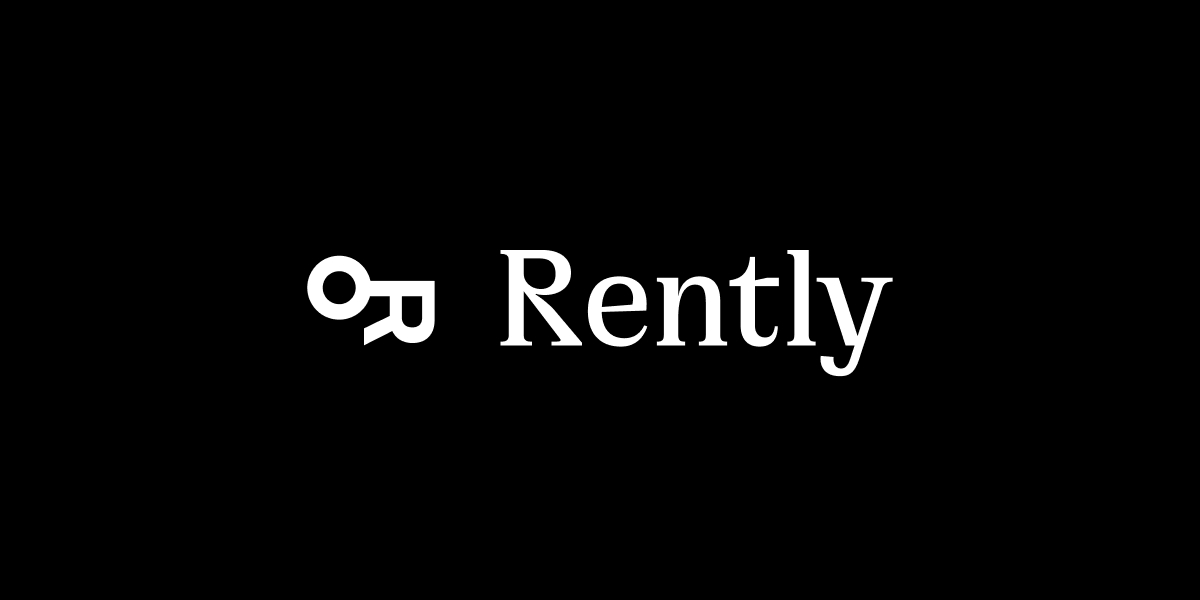
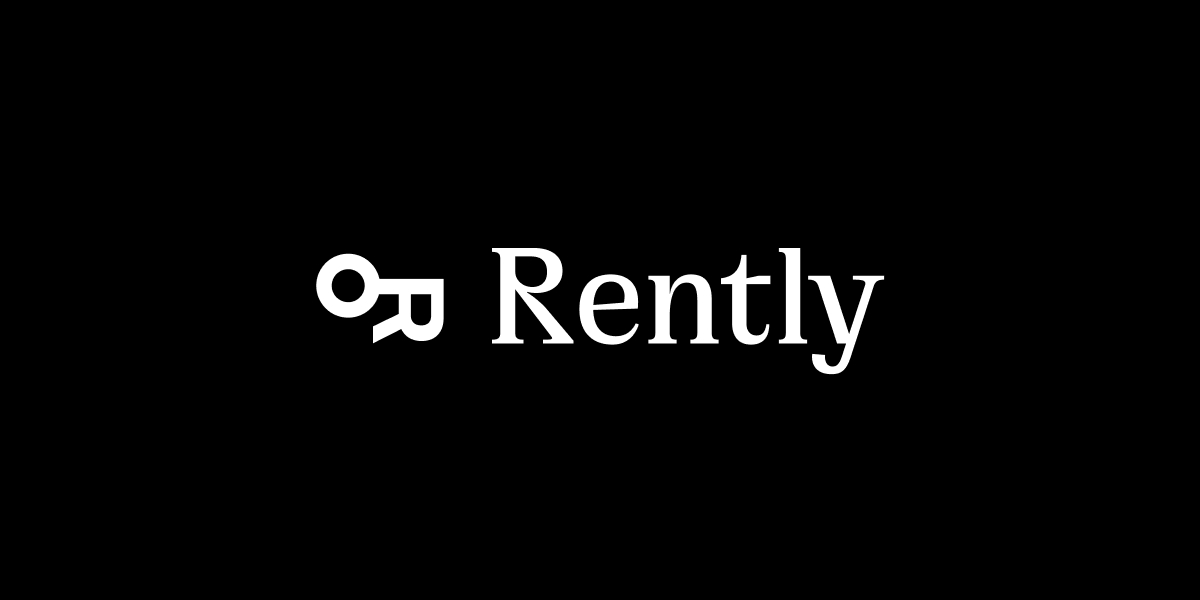
Updated README; Updated meta images

Changed region(s): [[0.4008, 0.39, 0.74, 0.63], [0.2467, 0.42, 0.37, 0.57]]

diff --git a/README.md b/README.md
@@ -1,42 +1,53 @@
-# Nuxt 3 Minimal Starter
+<p align="center">
+  <img src="https://rently-web-case.pages.dev/meta-image.jpg" alt="Astro logo">
+  <br/><br/>
+  This is a working prototype for an online platform that facilitates the property-renting process as part of a take-home web case for Rently.
+  <br/><br/>
+</p>
 
-Look at the [Nuxt 3 documentation](https://nuxt.com/docs/getting-started/introduction) to learn more.
+## Technical Stack
 
-## Setup
+As per the stated requirements, the following technical stack is used:
 
-Make sure to install the dependencies:
+- Vue 3 (utilises Composition API)
+- Nuxt 3 as a metaframework (utilises SSR)
+- Tailwind for styling
+
+The prototype is then deployed on Cloudflare Pages (via Pages Functions) at https://rently-web-case.pages.dev/
+
+## User Journey
+
+This is a simple user journey to verify that the prototype meets all the stated requirements in the assignment:
+
+1. Visit https://rently-web-case.pages.dev/
+2. Choose a property listing from the list and navigate to the Property page
+3. Click on 'Edit' in top-right corner and navigate to Edit page
+4. Make edits to property listing (limited only to adding, editing and removal of inventory items, other listing info cannot be edited since it is out of scope) and then click on 'Preview edits' button in top-right corner, thereafter navigating to Preview page
+5. Check that Preview page contains edits that were made and click on 'Approve edits' button in top-right corner, thereafter navigating back to Property page
+
+Other things to verify:
+
+1. Prototype is fully responsive across screen sizes
+2. Actual data is not mutated before 'Approve edits'
+3. Image upload (only the UI aspect works since no persistent storage is required, refer to notes below)
+
+## Notes
+
+- Since the JD asks for a "design-focused" frontend developer, I have made numerous design inputs to showcase these design skills. Such inputs include a fully-custom user interface for the prototype, design primitives such as fonts and colors and a redesign of the Rently logo.
+- Some parts of the UI have been implemented for visual completeness but do not have any functionality attached to it since they are out of scope (such as Search, links in the Navbar to other pages, Map, etc.).
+- Since the use of a database is not mandatory, data is mocked and stored locally (as a global reactive variable) — this means that data is ultimately not persisted and a hard refresh of the page will reset it to the initial data state. I did consider using a local persistent database (such as sqlite as suggested) but considered against it since a client-only database 1. defeats the purpose of an SSR application (that fetches data before it even reaches the client) and 2. leads to numerous hydration errors that distracts away from the task.
+- Similarly, persistent storage (for images) is not used and images are stored locally. Therefore, while the UI for image uploads work, no actual image uploading to a persistent storage is taking place.
+
+## Running Project Locally
+
+If you would like to clone and run the project locally:
 
 ```bash
-# yarn
-yarn install
-
 # npm
 npm install
+npm run dev
 
 # pnpm
-pnpm install --shamefully-hoist
+pnpm install
+pnpm run dev
 ```
-
-## Development Server
-
-Start the development server on http://localhost:3000
-
-```bash
-npm run dev
-```
-
-## Production
-
-Build the application for production:
-
-```bash
-npm run build
-```
-
-Locally preview production build:
-
-```bash
-npm run preview
-```
-
-Check out the [deployment documentation](https://nuxt.com/docs/getting-started/deployment) for more information.
